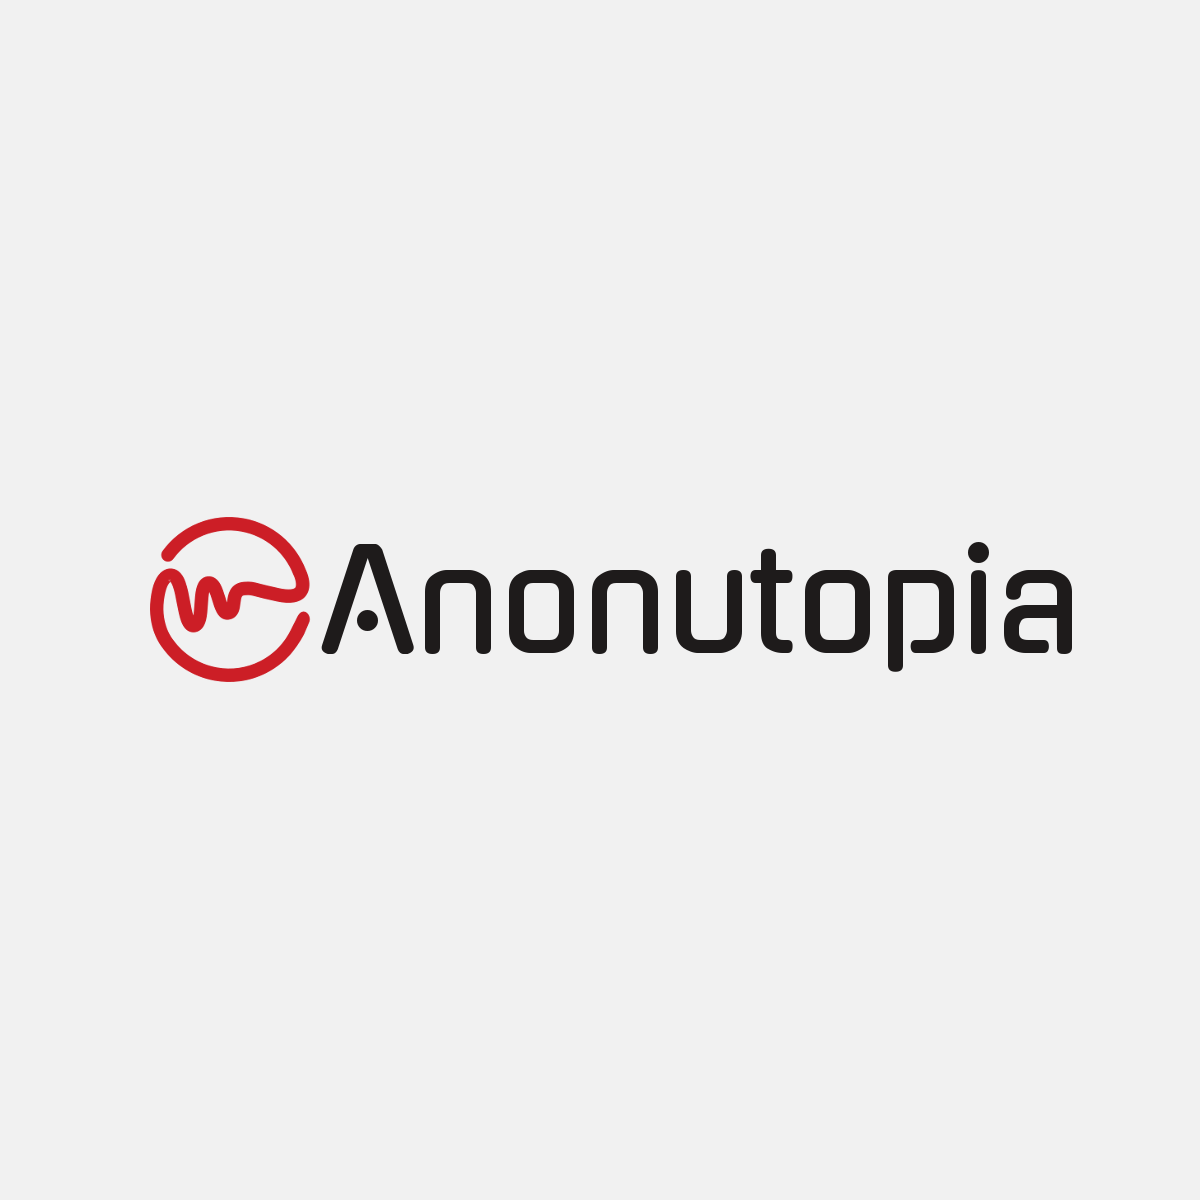
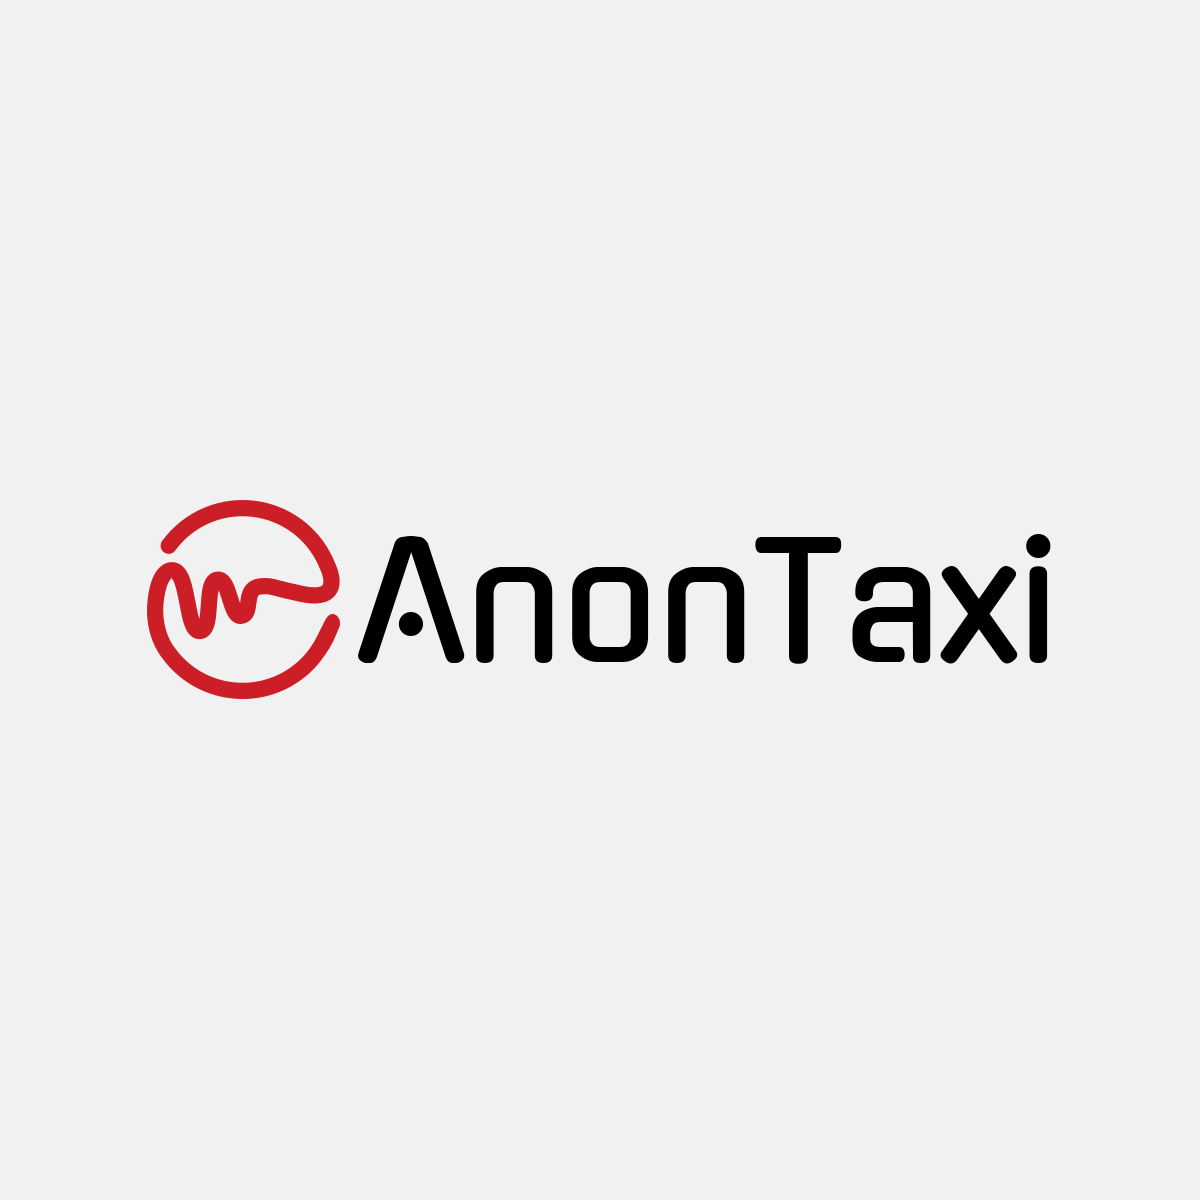
Fixed meta tags

Changed region(s): [[0.1233, 0.4008, 0.8942, 0.5858]]

diff --git a/index.html b/index.html
@@ -9,7 +9,7 @@
     <link rel="icon" type="image/png" href="./static/favicon.ico?v=1.0.1" />
 
     <title>AnonTaxi - Besplatna taxi aplikacija otvorenog koda</title>
-    <meta name="description" content="Anonutopia is a smart contract country (crypto-country or decentralized autonomous country) with its own currencies, universal basic income and other projects."/>
+    <meta name="description" content="AnonTaxi je besplatna taxi aplikacija otvorenog koda kojom upravlja zajednica koja ju i koristi."/>
 
     
     <link href="https://fonts.googleapis.com/css?family=Montserrat:400,700%7CVarela+Round" rel="stylesheet">
@@ -34,10 +34,10 @@
     
     
 
-    <meta property="og:url"                content="https://www.anonutopia.com/" />
+    <meta property="og:url"                content="https://www.anontaxi.com/" />
     <meta property="og:type"               content="article" />
-    <meta property="og:title"              content="Anonutopia - A Smart Contract Country!" />
-    <meta property="og:description"        content="Anonutopia is a smart contract country (crypto-country) with its own cryptocurrencies, universal basic income, ATM network and taxi, housing and similar apps." />
+    <meta property="og:title"              content="AnonTaxi - Besplatna Taxi Aplikacija" />
+    <meta property="og:description"        content="AnonTaxi je besplatna taxi aplikacija otvorenog koda kojom upravlja zajednica koja ju i koristi." />
     <meta property="og:image"              content="https://www.anonutopia.com/static/img/fb.png?v=1.0.0" />
 
 </head>
@@ -282,7 +282,7 @@
 
                     
                     <div class="footer-copyright">
-                        <p>Copyright &copy; 2020 <a href="https://www.anonutopia.com">Anonutopia</a>.</p>
+                        <p>Copyright &copy; 2020 <a href="/">AnonTaxi</a>.</p>
                     </div>
                     
 
